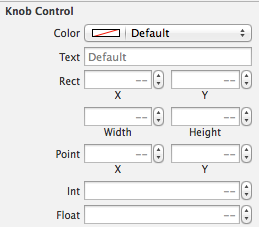
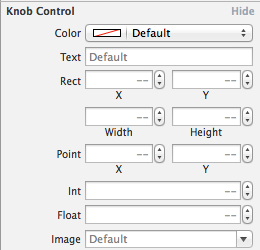
Add explanation of debugging live views

Changed region(s): [[0.0, 0.0, 0.9884, 1.0], [0.8649, 0.0308, 0.9884, 0.0617]]

diff --git a/17-live-rendering/17-live-rendering.md b/17-live-rendering/17-live-rendering.md
@@ -108,8 +108,30 @@ You can edit any types that you are used to using within IB:
     @IBInspectable
     var float: CGFloat = 0.0
 
+    @IBInspectable
+    var image: UIImage = UIImage()
+
 ![Inspectable Types](assets/inspectable-types.png)
 
+
+## Debugging Views
+
+So you've managed to get a view which appears inside IB, but maybe it's not
+behaving in quite the way you want it. In days gone by you would have thrown in
+some breakpoints to your view code, and then run it up in the simulator to debug
+it. Obviously you can continue to use this methodology, but the new live views
+functionality also offers the ability to debug views right in Interface Builder.
+
+Set up you break points in the usual way, and then select the view in the
+storyboard. Use the __Editor > Debug Selected Views__ menu option to kick off
+the debug process.
+
+![Debug selected view](assets/debug-selected-view.png)
+
+The debug process works in exactly the same way as it does on a device or in the
+simulator - so once you've started debugging then changing a value in the
+attributes inspector will run exactly the same code you'd expect - and hence hit
+any appropriately placed breakpoints.
 
 ## Conclusion
 
